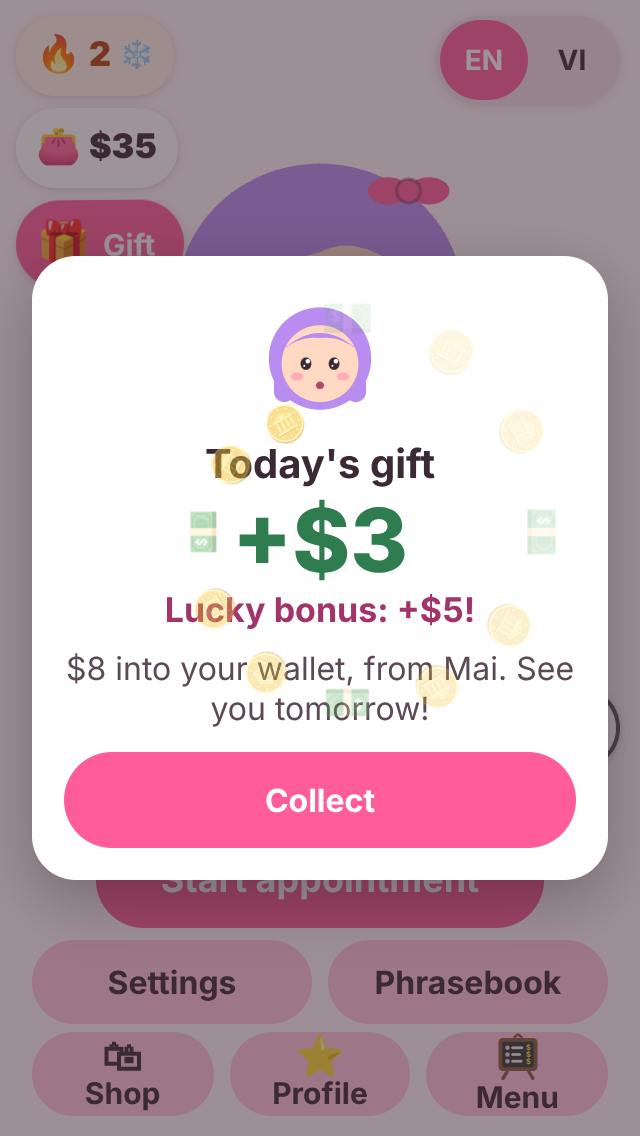
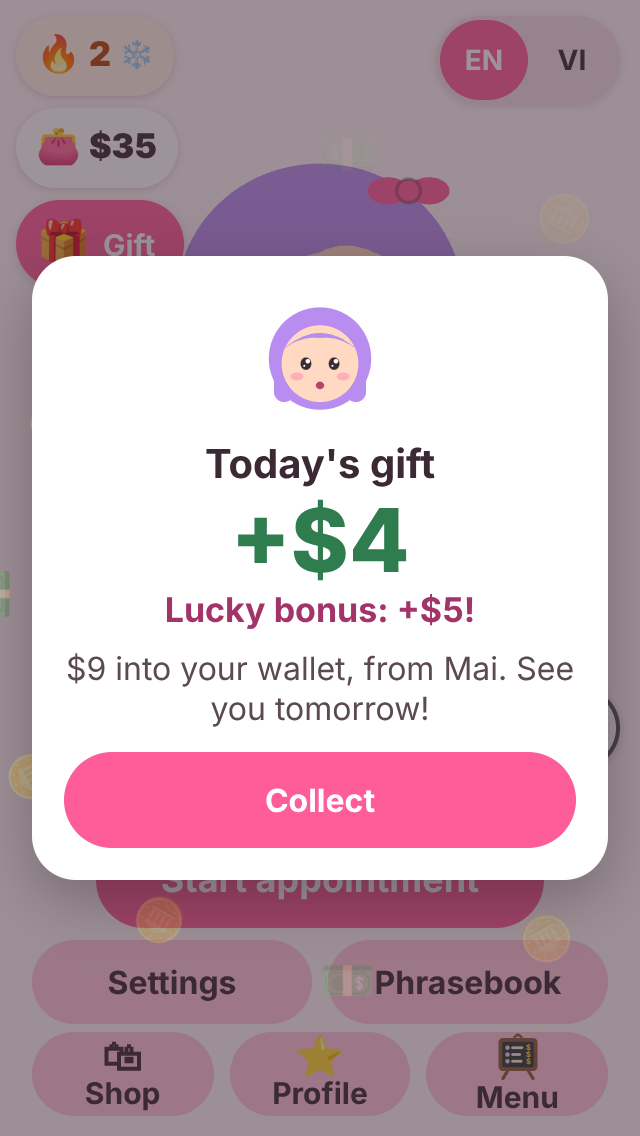
056 fix: the gift's coins fly out from behind the card, never over its words or Collect
Re-shot the opened gift (en + vi).

OWNER: no action needed (056 waits for your sign-off).

npm test:    Test Files  46 passed (46) / Tests  460 passed (460)
npm run e2e: 66 passed

Claude-Session: https://claude.ai/code/session_01Fx5cxFjSfz8L37QZFocT7H

diff --git a/src/game/ui/home-status.css b/src/game/ui/home-status.css
@@ -14,12 +14,12 @@
 html[data-motion='reduce'] .home-gift.ready { animation: none; }
 
 .gift-sheet { position: fixed; inset: 0; z-index: 60; display: grid; place-items: center; padding: 16px; background: rgba(59, 42, 51, 0.5); }
-.gift-card { position: relative; width: min(340px, 100%); box-sizing: border-box; padding: 18px 16px 16px; border-radius: 22px; background: #fff; color: #3b2a33; text-align: center; box-shadow: 0 10px 30px rgba(0, 0, 0, 0.25); animation: pay-pop 0.25s ease-out; }
+.gift-card { position: relative; z-index: 1; width: min(340px, 100%); box-sizing: border-box; padding: 18px 16px 16px; border-radius: 22px; background: #fff; color: #3b2a33; text-align: center; box-shadow: 0 10px 30px rgba(0, 0, 0, 0.25); animation: pay-pop 0.25s ease-out; }
 .gift-card h2 { margin: 6px 0 2px; font-size: 20px; }
 .gift-amount { margin: 4px 0; font: 800 44px/1 system-ui, sans-serif; color: #2f7d4f; }
 .gift-extra { margin: 4px 0; font-size: 17px; font-weight: 700; color: #a2346a; }
 .gift-total { margin: 8px 0 12px; font-size: 16px; color: #5b4a53; }
 .gift-collect { width: 100%; min-height: 52px; font-size: 18px; }
-.gift-burst { position: absolute; left: 50%; top: 40%; width: 0; height: 0; pointer-events: none; }
+.gift-burst { position: absolute; left: 50%; top: 50%; width: 0; height: 0; pointer-events: none; z-index: 0; }
 .gift-coin { position: absolute; font-size: 22px; animation: gift-burst 0.9s ease-out forwards; }
-@keyframes gift-burst { from { transform: rotate(var(--a)) translateY(0) scale(0.6); opacity: 1; } to { transform: rotate(var(--a)) translateY(-120px) scale(1); opacity: 0; } }
+@keyframes gift-burst { from { transform: rotate(var(--a)) translateY(-60px) scale(0.6); opacity: 1; } to { transform: rotate(var(--a)) translateY(-230px) scale(1.1); opacity: 0; } }

diff --git a/src/game/ui/home-status.ts b/src/game/ui/home-status.ts
@@ -76,7 +76,7 @@ function openGiftSheet(host: HTMLElement, coins: number, bonus: number, mileston
       burst.append(coin);
     }
   }
-  card.append(burst, renderMascot('talking', 64, { crop: 'bust', ...companionLook() }), el('h2', '', t('daily.giftTitle')), el('p', 'gift-amount', `+$${coins}`));
+  card.append(renderMascot('talking', 64, { crop: 'bust', ...companionLook() }), el('h2', '', t('daily.giftTitle')), el('p', 'gift-amount', `+$${coins}`));
   if (bonus > 0) card.append(el('p', 'gift-extra', t('daily.giftBonus', { dollars: bonus })));
   if (milestone) card.append(el('p', 'gift-extra gift-milestone', t('daily.giftMilestone', { days: milestone.days, dollars: milestone.gift })));
   card.append(el('p', 'gift-total', t('daily.giftTotal', { dollars: total, name: companionName() })));
@@ -88,7 +88,8 @@ function openGiftSheet(host: HTMLElement, coins: number, bonus: number, mileston
   };
   collect.addEventListener('click', close);
   card.append(collect);
-  sheet.append(card);
+  // 056 fix: the coins fly out from BEHIND the card (only around its edges), never over its words or Collect.
+  sheet.append(burst, card);
   host.append(sheet);
   collect.focus({ preventScroll: true });
 }
